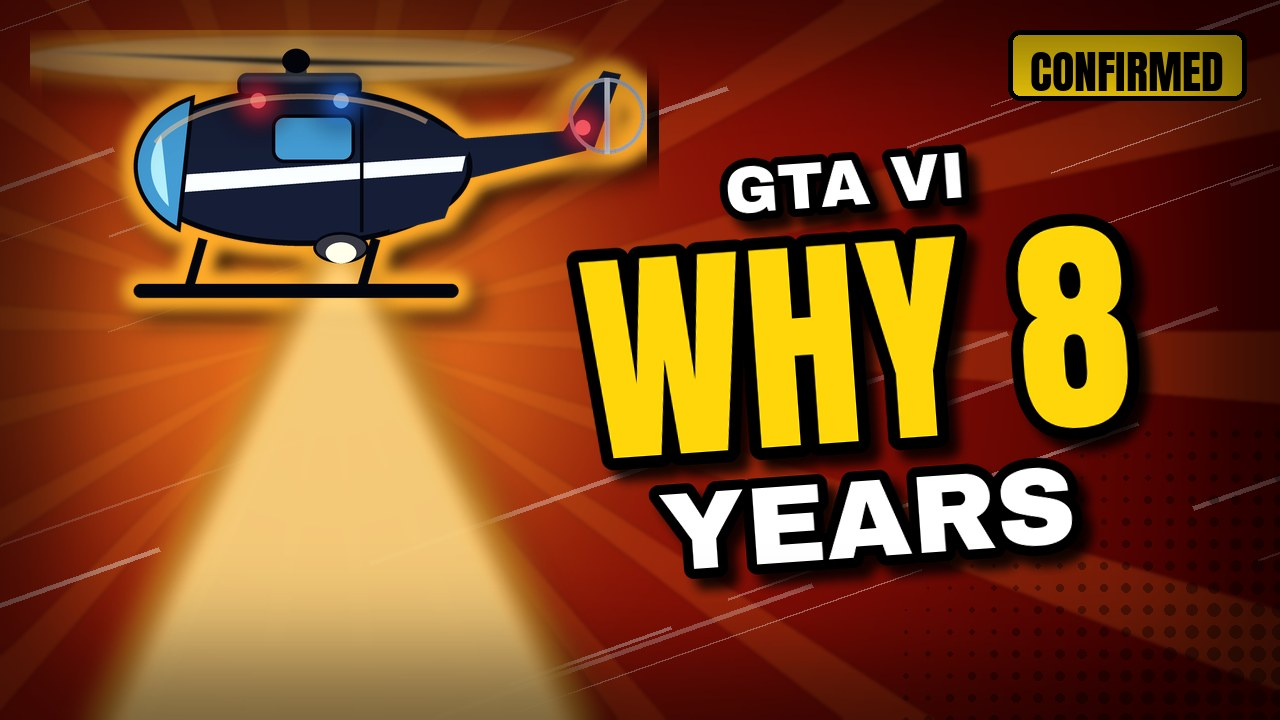
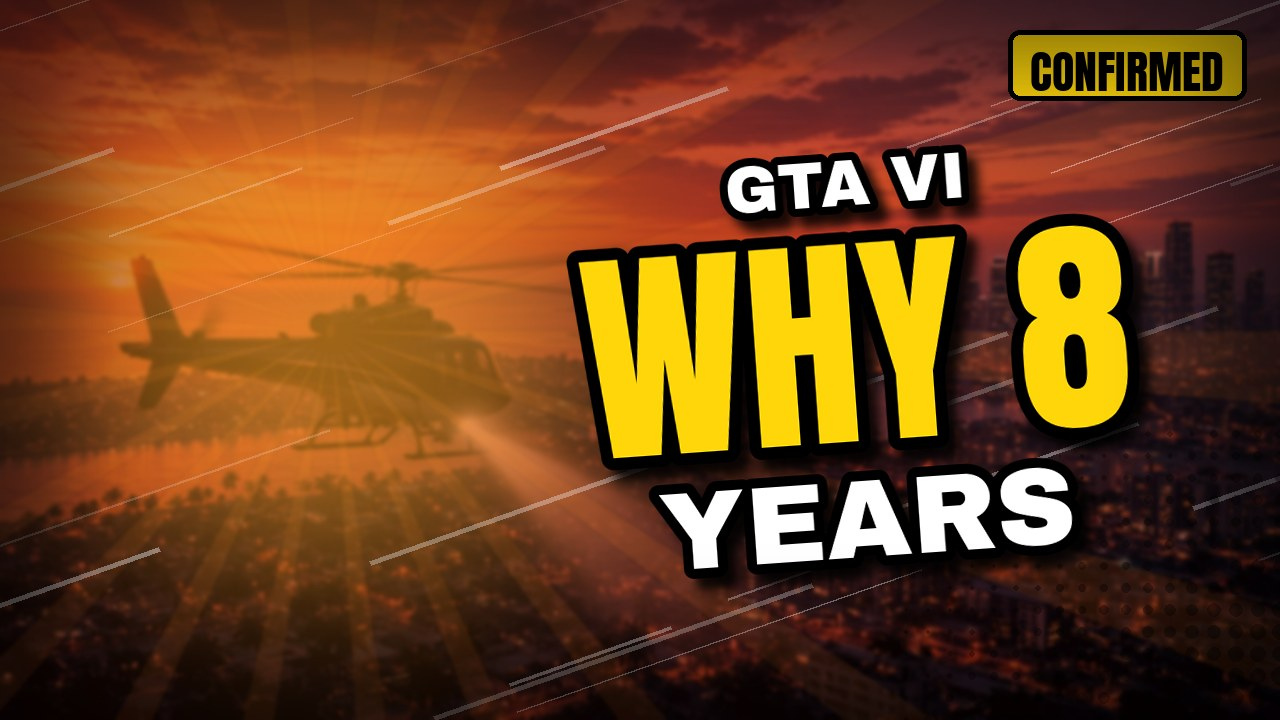
GTA covers: photoreal generated scenes replace drawn props

diff --git a/RUNBOOK-news.md b/RUNBOOK-news.md
@@ -65,6 +65,7 @@ thumb: {style: v2, label: "GTA VI", lines: ["RADIO", "REVEALED"], key: 0, theme:
   - **NEVER use drawn/vector props (`scripts/draw_props.py`, `prop-*.png` such as the helicopter or boombox) for ANY game.** Rick rejected them; `thumbs_v2.py` now refuses them.
 - **GTA VI thumbnails MUST ALWAYS be a freshly generated, photoreal, cinematic full-bleed scene** (GenerateImage, done by the parent agent), in the style of Rick's GTA references: warm orange/pink sunset or neon city, police helicopters with searchlights over a skyline, muscle cars, highways at golden hour, beaches, Vice City vibe. No logos, no real people, no official characters, never the reference images themselves (they may be official art).
   - Use it as `bg: media/characters/gta6-<scene>.jpg`, `bg_mode: full`, no `character:`, `side: left` (text side). New scene every post; never reuse an earlier GTA image (check `rg -n "^thumb" content/articles/gta-*.md`).
+  - GenerateImage returns a path outside the repo: copy it into `media/characters/gta6-<scene>.jpg` IMMEDIATELY after generating (`cp <returned path> media/characters/gta6-<scene>.jpg`), before doing anything else.
   - Before building, confirm the generated file exists on disk (`ls -la media/characters/gta6-<scene>.jpg`) and look at it: it must be photoreal with no drawn/cartoon elements. If the image can't be saved, retry generating; NEVER fall back to props or placeholders.
 - Optional `bg: media/screenshots/...jpg` adds a faint, colour-graded scene under the rays (default `bg_mode: faint`); `bg_mode: full` uses the real scene, colour-graded, as the background.
 - **ARC Raiders thumbnails MUST use Rick's own gameplay images** (never the AI placeholder):

diff --git a/content/articles/gta-6-bloomberg-project-americas-development.md b/content/articles/gta-6-bloomberg-project-americas-development.md
@@ -5,7 +5,7 @@ game: gta6
 category: news
 date: 2026-10-14
 description: "Bloomberg's GTA 6 feature: Rockstar confirms Project Americas, explains the NPC-driven delay and says the next game won't take as long."
-thumb: {style: v2, label: "GTA VI", lines: ["WHY 8", "YEARS"], key: 0, theme: fire, character: prop-helicopter.png, side: left, badge: "CONFIRMED"}
+thumb: {style: v2, label: "GTA VI", lines: ["WHY 8", "YEARS"], key: 0, theme: fire, bg: media/characters/gta6-heli-sunset-skyline.jpg, bg_mode: full, side: left, badge: "CONFIRMED"}
 sources:
   - {name: "Bloomberg Businessweek — Inside the Making of Grand Theft Auto 6 (Jason Schreier, Oct 14, 2026)", url: "https://www.bloomberg.com/features/2026-grand-theft-auto-6-making-of/"}
   - {name: "Polygon — Rockstar reveals why GTA 6 took nearly a decade", url: "https://www.polygon.com/gta-6-bloomberg-jason-rockstar-development/"}

diff --git a/content/articles/gta-6-radio-stations-revealed.md b/content/articles/gta-6-radio-stations-revealed.md
@@ -6,7 +6,7 @@ category: news
 featured: true
 date: 2026-10-09
 description: "Rockstar has revealed six GTA VI radio stations you can preview now, including the return of Flash FM, plus on-demand podcasts and a 34-track GTA VI: The Album out November 19."
-thumb: {style: v2, label: "GTA VI", lines: ["RADIO", "REVEALED"], key: 0, theme: neon, character: prop-boombox.png, side: right, badge: "NEW"}
+thumb: {style: v2, label: "GTA VI", lines: ["RADIO", "REVEALED"], key: 0, theme: neon, bg: media/characters/gta6-neon-convertible.jpg, bg_mode: full, side: left, badge: "NEW"}
 sources:
   - {name: "Rockstar Games — The Music of Grand Theft Auto VI", url: "https://www.rockstargames.com/VI/music"}
   - {name: "Push Square — GTA 6 In-Game Radio Stations Announced", url: "https://www.pushsquare.com/news/2026/10/gta-6-in-game-radio-stations-announced-and-you-can-preview-them-right-now"}
